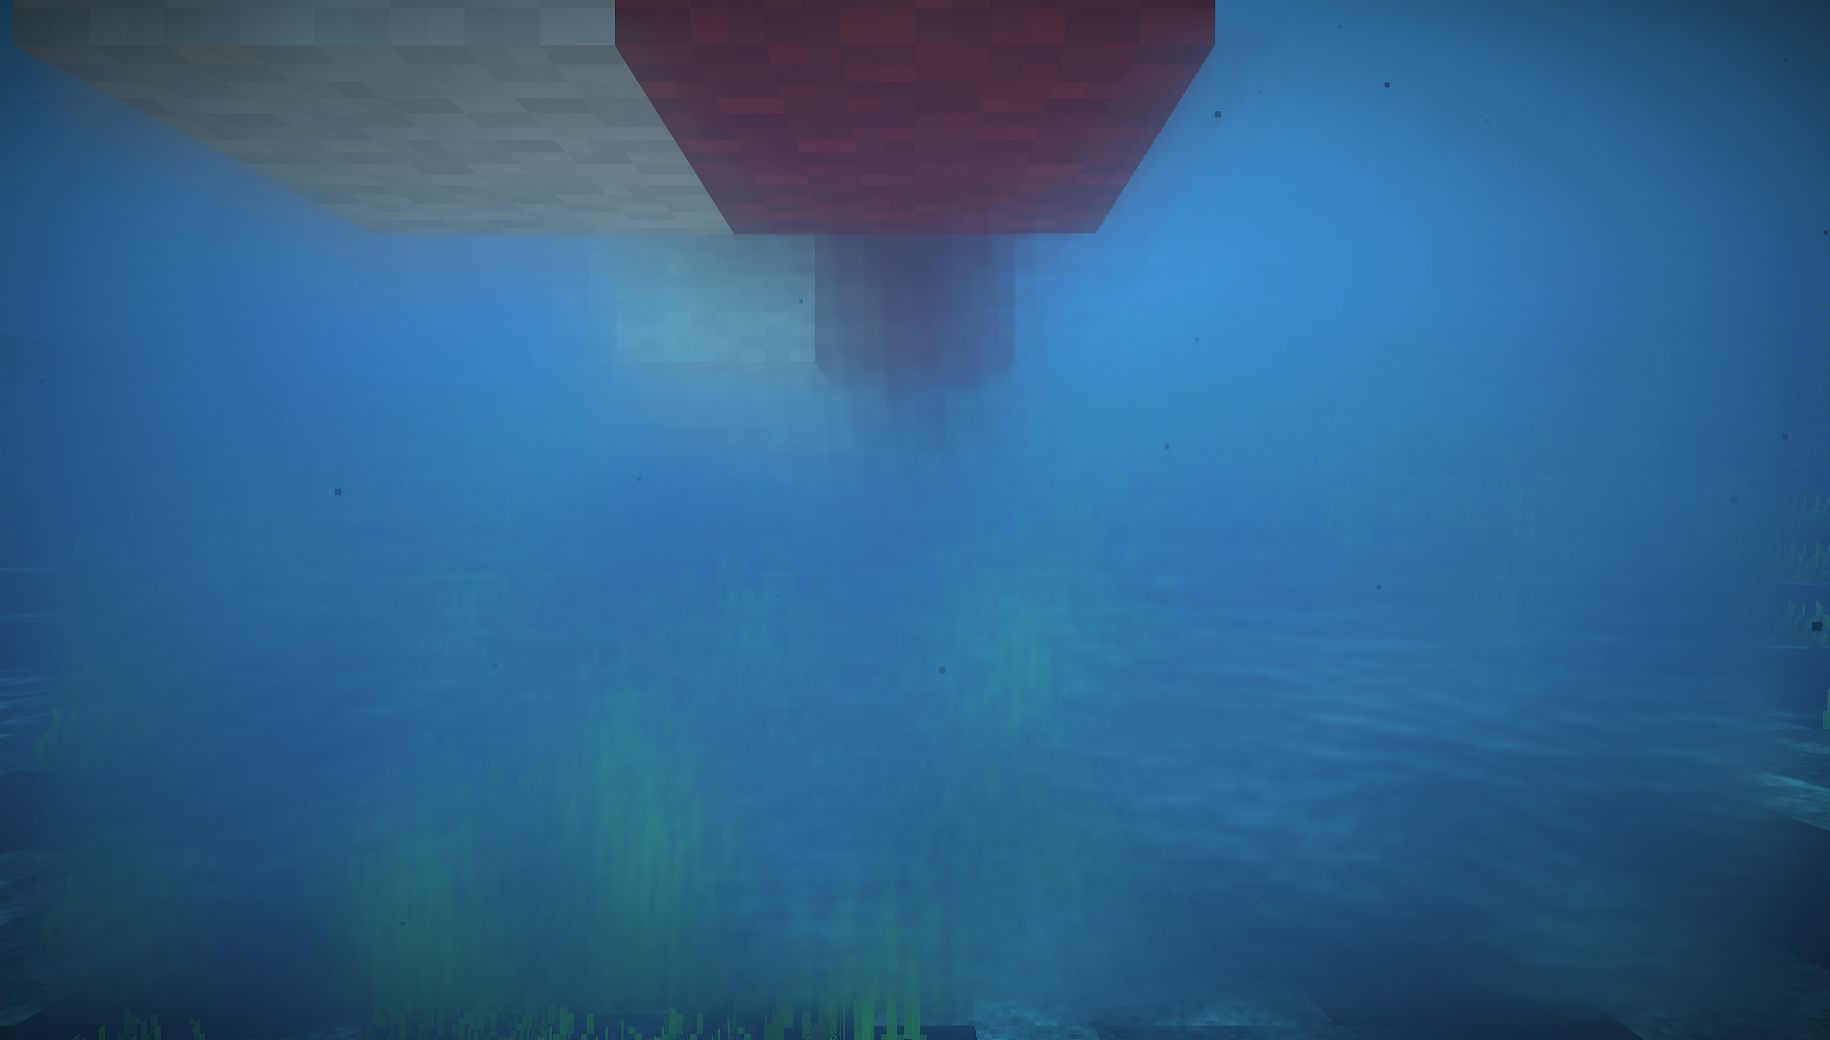
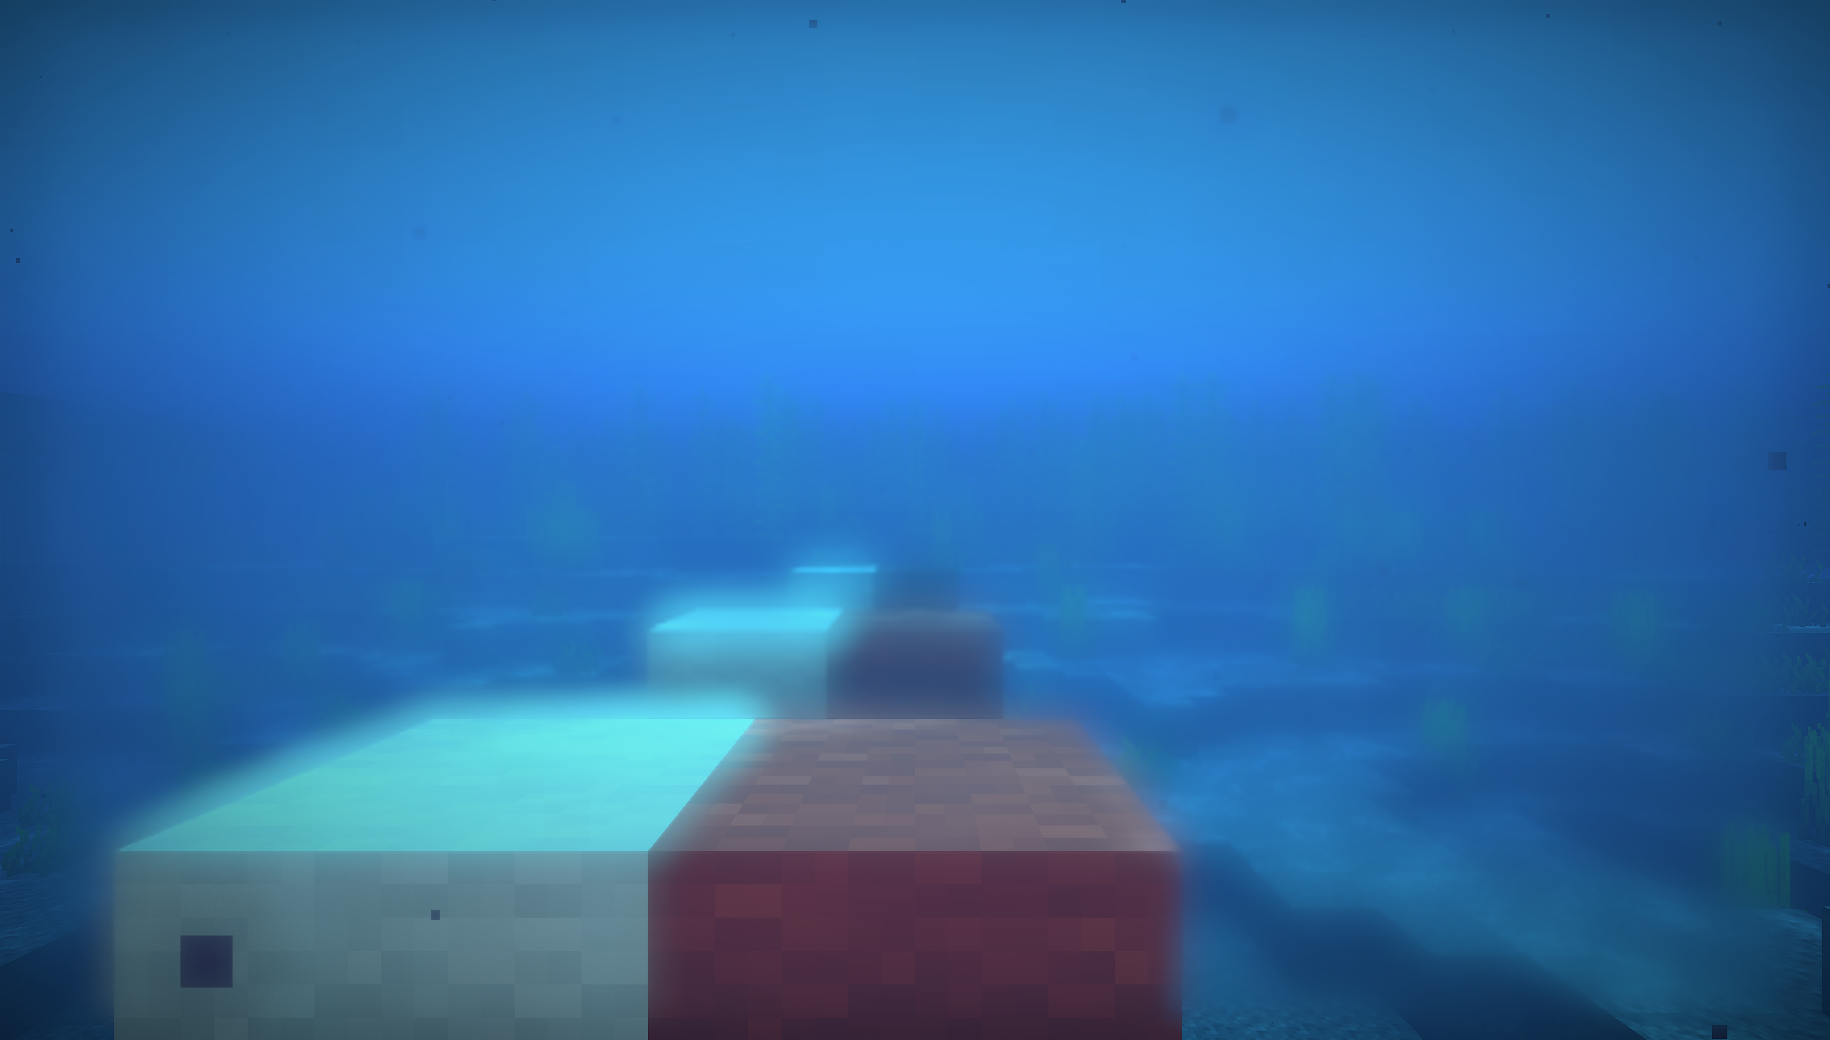
07.4 Agua con lo medido en paridad 07: extinción (0,39; 0,108; 0,066), F0 0,02037 y curva de crestas
La misma extinción en la superficie, bajo el agua y en la composición; los coeficientes, Fresnel, calma del
oleaje y agudeza de las cáusticas pasan a constantes con nombre en opciones/agua.wgsl.

diff --git a/docs/efectos/agua.md b/docs/efectos/agua.md
@@ -20,18 +20,22 @@ Especificación: `../vulpe-horizon-spec/subsistemas/07-agua.md`. Capturas: `prue
 
 - **Olas** (`nucleo/agua/olas.wgsl`): 3 octavas del canal G de `ruido2d` con escalas anisótropas (220×90, 70×160,
   60×60 bloques), giradas 137,5° entre sí y desplazadas con el tiempo; oleaje en parches con el canal R a 1800
-  bloques curvado en S. Normal por diferencias finitas con paso que crece con la distancia y 2 octavas pasados 48
+  bloques pasado por la **curva de crestas medida** (`paridad/07` §2, tabla de 21 puntos interpolada,
+  `AGU_CURVA_CRESTAS`) con un mínimo de 0,30 (`OPC_AGUA_CALMA`; antes una S de 0,15 a 1). Normal por diferencias finitas con paso que crece con la distancia y 2 octavas pasados 48
   bloques. En caras verticales (cascadas), la normal geométrica. Fuerza × (1 + 0,8·lluvia).
 - **Refracción falsa** (Sousa 2005): desplazamiento en pantalla por la normal tangente × opción × 0,0006,
   decreciente con la distancia y en el 10 % del borde; si lo desplazado está delante del agua (profundidad
   invertida mayor que la de la superficie), sin desplazar. Profundidad a lo largo de la vista con `opaque_depth`
   reconstruida con `view_inverse · projection_inverse`. `opaque_color` y el espejo se **decodifican** (ADR 0004):
   son terreno dibujado por nuestro material.
-- **Absorción** (`nucleo/agua/optica.wgsl`): σ_a = (0,55; 0,13; 0,085) por bloque / claridad, la del agua pura
-  (Pope y Fry 1997) reforzada en verde y azul para que a 1 bloque sea casi incolora, a 3–5 verde azulada y a 10
-  azul oscura. Dispersión 0,035 gris con color (0,08; 0,45; 0,55) × ambiente. Absorción mínima de 4 bloques sin
+- **Absorción** (`OPC_AGUA_ABSORCION`, en `opciones/agua.wgsl`): extinción σ = (0,39; 0,108; 0,066) por bloque /
+  claridad, la **medida** en `paridad/07` §1 (transmitancia a 4 bloques 0,21; 0,65; 0,77). La misma en la
+  superficie, en el raymarch bajo el agua y en la composición por canal: antes eran (0,55; 0,13; 0,085), puestos a
+  ojo desde Pope y Fry 1997, y bajo el agua ese valor × 0,45 + la dispersión, porque con el de la superficie la niebla
+  se cerraba en pocos bloques. Dispersión 0,035 gris con color (0,08; 0,45; 0,55) × ambiente. Absorción mínima de 4 bloques sin
   luz de cielo.
-- **Reflejo:** Fresnel de Schlick F0 = 0,02. El alfa del espejo no distingue el cielo (dato del gestor): se detecta
+- **Reflejo:** Fresnel de Schlick con F0 = 0,02037 (`OPC_AGUA_F0`, n = 1,333; `paridad/07` §1 coincide con Schlick
+  en toda la tabla, 0,0225 a 45°, 0,439 a 81°). El alfa del espejo no distingue el cielo (dato del gestor): se detecta
   por el **parecido de color** con el degradado vanilla esperado (`frame.sky_color` arriba, `frame.fog_color` al
   horizonte) y la **elevación** reflejada, con la elevación sola si todo es oscuro (noche); ahí se pone el cielo del
   pack (horizonte → cielo medio de la tabla). Alfa < 0,75 (bloque emisivo): ×3. Sin espejo o fuera de su plano,
@@ -39,8 +43,7 @@ Especificación: `../vulpe-horizon-spec/subsistemas/07-agua.md`. Capturas: `prue
 - **Especular del sol:** GGX con rugosidad 0,02 sobre la normal de las olas (el reguero del atardecer).
 - **Desde abajo:** Fresnel desde dentro con el ángulo crítico de n = 1,333; fuera, reflexión total hacia un color
   de agua profunda.
-- **Niebla bajo el agua:** absorción × 0,45 a lo largo de la vista (con la de la superficie se cerraba en pocos
-  bloques: un muro azul), dispersión con la luz del sol × 0,5 y ambiente teñido. El destino del volumen guarda una sola
+- **Niebla bajo el agua:** la extinción medida a lo largo de la vista, dispersión con la luz del sol × 0,5 y ambiente teñido. El destino del volumen guarda una sola
   transmitancia (la luminancia); **la composición aplica la absorción por canal** con la distancia (Beer-Lambert con la
   misma absorción del raymarch, `adp_transmitancia_compuesta`; falta 07.1 de la fase 2).
 - Las funciones del agua van solo en material, volumen y composición, no en `shared`: las lecturas de textura
@@ -110,3 +113,15 @@ justo debajo pasa lo contrario arriba (se ve el aire, que es lo correcto).
 Visto en `hoja-agua-cruce.png`: a 20° y a 85° hacia abajo, con el ojo en 65, 64, 62,92, 62,90, 62,88, 62,86, 62 y 61,
 ya no hay franja de fondo claro; con el ojo justo debajo se ve el cielo por encima de la línea, como debe. Sin ver: de
 noche (el mapa de sombras es el de la luna) y bajo árboles que tapen la luz (entonces quedan la sonda y la memoria).
+
+## Paridad 07 (fase 2b, punto 4)
+
+Observación del dueño: superficie y fondo del mar «aún muy incompletos». Contra `paridad/07`: absorción, Fresnel y
+oleaje pasan a lo medido (arriba). Con ello, en `agua-orilla`/`agua-abajo` el agua de la orilla sale turquesa clara y
+transparente en vez de verdosa; bajo el agua (`agua-dentro*`) el azul es más limpio y el fondo se ve más lejos; en
+`agua-color` la lana roja a 5 bloques ya es casi negra (el rojo cae a 0,2 en 4 bloques) y la blanca azul celeste.
+Capturas con el aislamiento apagado.
+
+**Queda sin hacer (del inventario):** las partículas en suspensión o turbidez (en el original 0,05 por defecto, cuatro
+ajustes) y la espuma (apagada por defecto en el original). Los tres coeficientes de absorción son constantes con nombre,
+no opciones del menú (presupuesto de 64).
